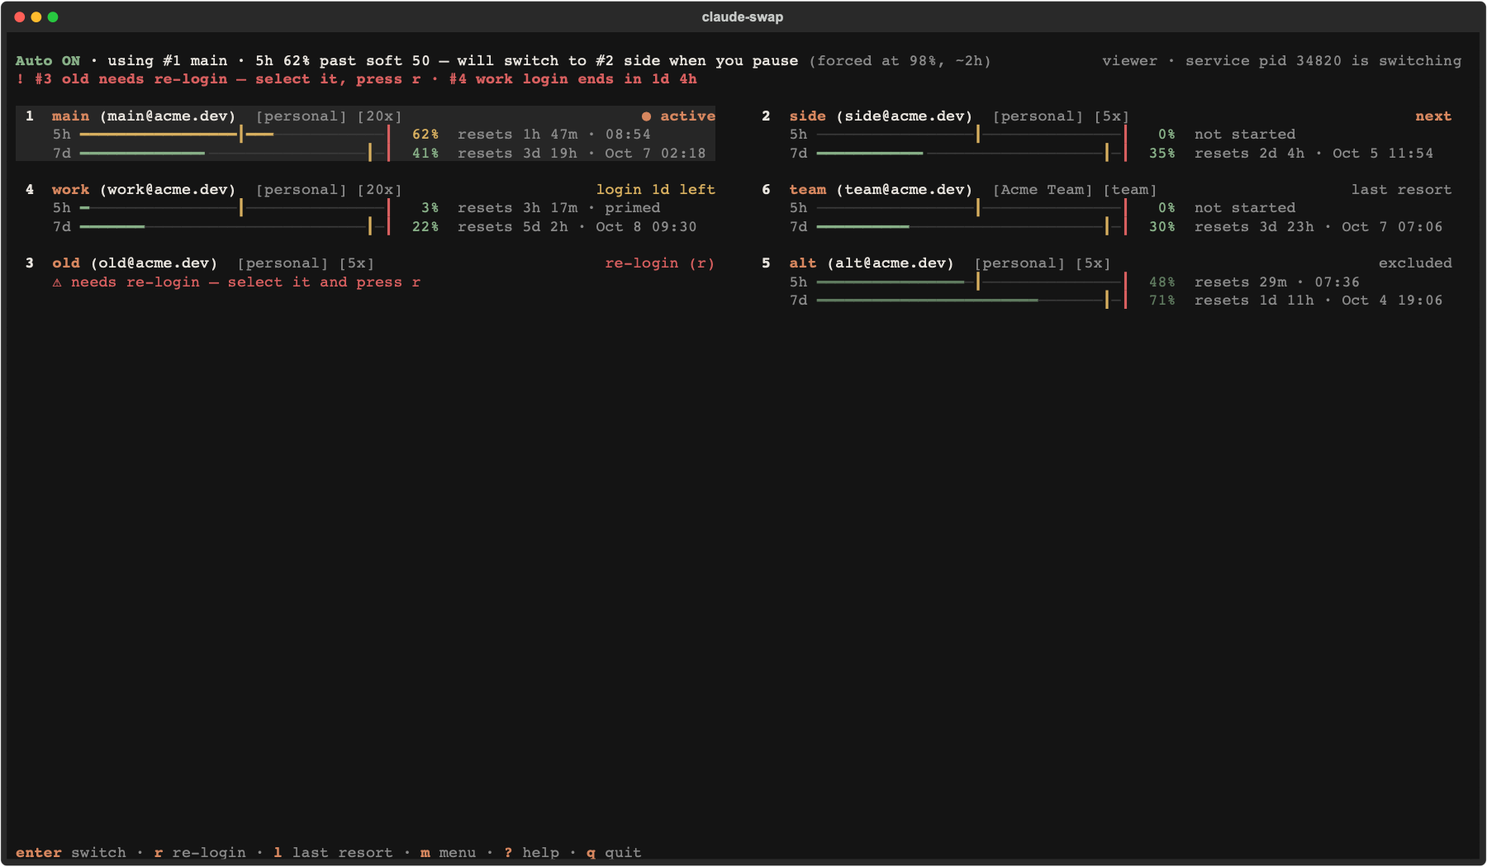
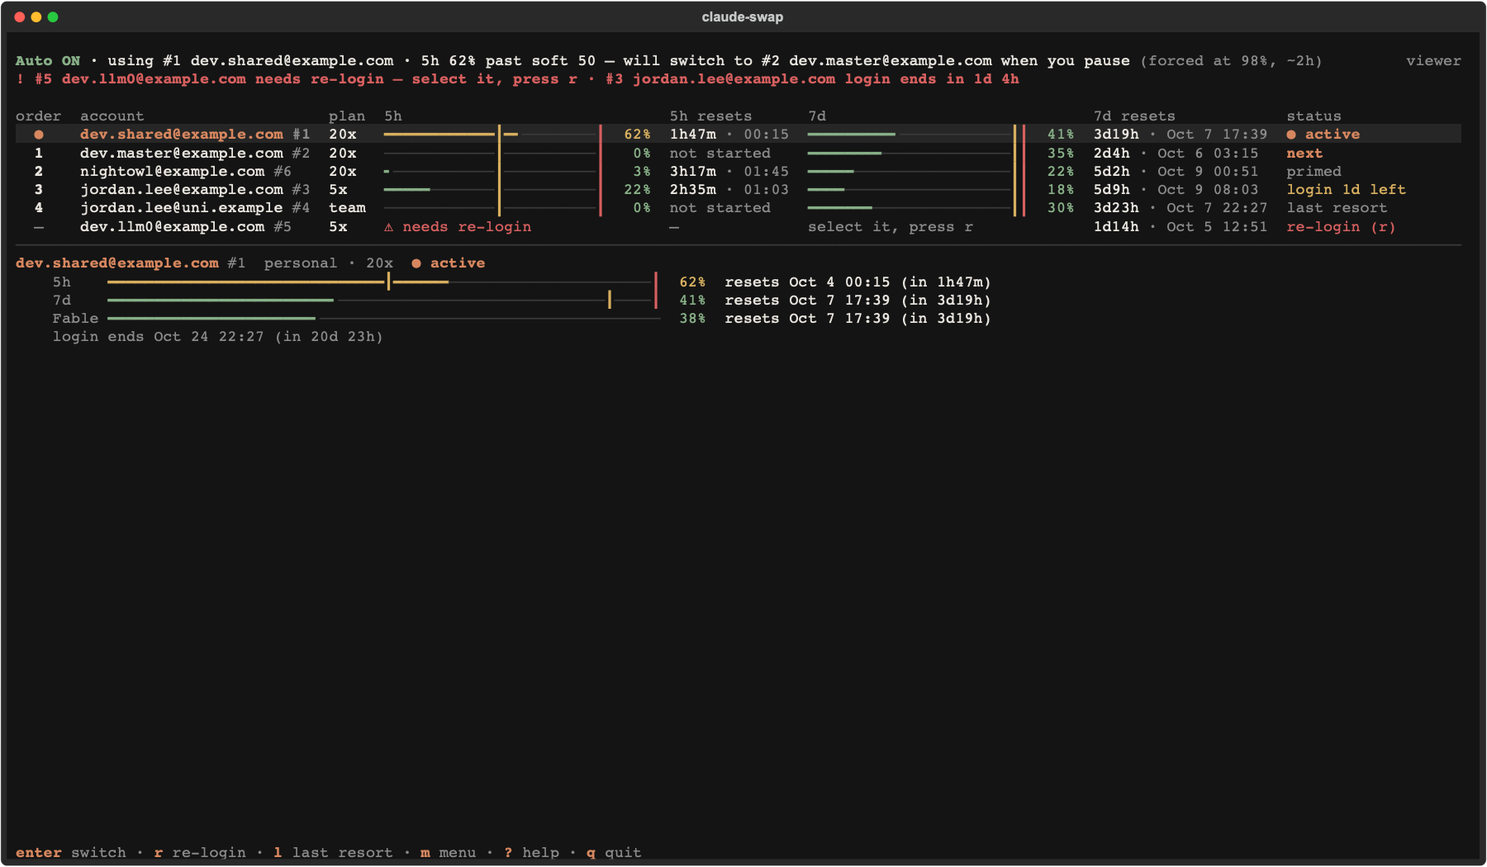
README, screenshots: the table home screen
The Fleet section describes the table: its headers, the order column
(● / 1 2 3 … / –) and the dim #4 after each name, both resets on every
row, the status column right after 7d resets (with primed), the
selected account's panel (per-model windows such as Fable included),
and the order the columns give way in on a narrow terminal. Up/down
move one row; there are no columns to move across any more.

tools/fleet_screenshots.py seeds six accounts the way a real fleet
looks: no aliases, so the table shows full 20-22 character emails, and
one account per state (active with a Fable window, next with its 5h not
started, a login a day from its deadline, a Team account as last
resort, a dead login that still knows its 7d reset, a primed account).
Sizes are 160x45, 120x36, 100x30, 80x24 and 200x16 (wide but short),
written to /tmp/cc-swap-tui-poc/table by default. --emails swaps in
other addresses for a private preview, so real ones stay out of the
README images. The three README images are regenerated from it.

diff --git a/tools/fleet_screenshots.py b/tools/fleet_screenshots.py
@@ -1,6 +1,7 @@
 """Screenshots of the Fleet home screen, from a fake fleet (README images).
 
-    uv run python tools/fleet_screenshots.py [--out DIR ...] [--assets DIR] [NAME ...]
+    uv run python tools/fleet_screenshots.py [--out DIR ...] [--assets DIR]
+        [--emails A,B,C,D,E,F] [NAME ...]
 
 Runs the real ``CswapApp`` against six fake accounts in a temporary HOME
 (``tests.test_tui.FakeSwitcher``, a temporary backup root, the service
@@ -10,9 +11,17 @@ the Keychain, ``claude`` or launchd/systemd. The fake backup root also gets
 nine days of usage history, so help and Swap strategy show a learned idle
 pattern.
 
+The six accounts have no aliases, so the table shows their full emails
+(20-22 characters, like a real fleet's), and cover every row state: the
+active account (with a per-model ``Fable`` window), the next one with its
+5h window not started, a login one day from its deadline, a Team account
+marked last resort, a dead login and a primed account. ``--emails`` swaps
+in other addresses (six, comma-separated) for a private preview; keep real
+addresses out of the README images.
+
 Writes ``fleet-<size>.svg`` for each shot, plus a PNG (macOS Quick Look,
 cropped to the window) when ``qlmanage`` and ``sips`` exist, into the first
-``--out`` (default ``/tmp/cc-swap-tui-poc/final``) and copies them into any
+``--out`` (default ``/tmp/cc-swap-tui-poc/table``) and copies them into any
 further ``--out``. ``--assets DIR`` also copies the README's images there
 (:data:`README_ASSETS`). NAMEs pick shots (``160x45``, ``menu``,
 ``autooff``, ``resetwait``, ``preempt``, ``strategy`` …); none means all.
@@ -46,7 +55,13 @@ from claude_swap.usage_store import UsageEntry  # noqa: E402
 
 NOW = time.time()
 H, D = 3600.0, 86400.0
-SIZES = [(160, 45), (120, 36), (90, 28), (80, 24)]
+SIZES = [(160, 45), (120, 36), (100, 30), (80, 24), (200, 16)]
+
+#: The six accounts' emails (no aliases). ``--emails`` replaces them.
+EMAILS = [
+    "dev.shared@example.com", "dev.master@example.com", "jordan.lee@example.com",
+    "jordan.lee@uni.example", "dev.llm0@example.com", "nightowl@example.com",
+]
 
 
 def _iso(ts: float) -> str:
@@ -54,34 +69,46 @@ def _iso(ts: float) -> str:
         "+00:00", "Z")
 
 
-def _entry(p5, r5, p7, r7_days, age=40.0) -> UsageEntry:
-    last_good = {
-        "five_hour": {"pct": p5, "resets_at": _iso(NOW + r5) if r5 else None},
-        "seven_day": {"pct": p7, "resets_at": _iso(NOW + r7_days * D)},
-    }
-    return UsageEntry(last_good=last_good, fetched_at=NOW - age, age_s=age)
+def _window(pct, reset_in) -> dict:
+    return {"pct": pct, "resets_at": _iso(NOW + reset_in) if reset_in else None}
 
 
-def _account(n, alias, entry, *, active=False, org="", login_days=None, disabled=False):
+def _entry(p5, r5, p7, r7_days, *, age=40.0, fable=None, sentinel=None) -> UsageEntry:
+    last_good = {"five_hour": _window(p5, r5), "seven_day": _window(p7, r7_days * D)}
+    if fable is not None:
+        last_good["scoped"] = [{"name": "Fable", **_window(fable, r7_days * D)}]
+    return UsageEntry(sentinel=sentinel, last_good=last_good, fetched_at=NOW - age, age_s=age)
+
+
+def _account(n, email, entry, *, active=False, org="", login_days=None, disabled=False):
     return AccountSnapshot(
-        number=str(n), email=f"{alias}@acme.dev", org_name=org, org_uuid="org-1" if org else "",
-        is_active=active, kind="oauth", switchable=True, usage=entry, alias=alias,
+        number=str(n), email=email, org_name=org, org_uuid="org-1" if org else "",
+        is_active=active, kind="oauth", switchable=True, usage=entry, alias="",
         disabled=disabled,
         login_expires_at=(NOW + login_days * D) * 1000.0 if login_days is not None else None,
     )
 
 
-# #1 active past its 5h soft mark; #2 cold, next; #3 dead login; #4 primed,
-# login ends in about a day; #5 excluded; #6 a Team account, last resort.
-ACCOUNTS = [
-    _account(1, "main", _entry(62.0, 1.8 * H, 41.0, 3.8), active=True, login_days=21),
-    _account(2, "side", _entry(0.0, None, 35.0, 2.2), login_days=20),
-    _account(3, "old", UsageEntry(sentinel=USAGE_RELOGIN_REQUIRED)),
-    _account(4, "work", _entry(3.0, 3.3 * H, 22.0, 5.1), login_days=1.2),
-    _account(5, "alt", _entry(48.0, 0.5 * H, 71.0, 1.5), login_days=14, disabled=True),
-    _account(6, "team", _entry(0.0, None, 30.0, 4.0), org="Acme Team", login_days=29),
-]
-PLANS = {"1": "20x", "2": "5x", "3": "5x", "4": "20x", "5": "5x", "6": "team"}
+def accounts_for(emails: list[str], first: UsageEntry | None = None) -> list[AccountSnapshot]:
+    """#1 active, past its 5h soft mark, with a Fable window (``first``
+    replaces its usage); #2 next, its 5h not started; #3 login ends in
+    about a day; #4 a Team account, last resort, 5h not started; #5 a dead
+    login (its last reading still says when its windows reset); #6 primed."""
+    e = emails
+    return [
+        _account(1, e[0], first or _entry(62.0, 1.8 * H, 41.0, 3.8, fable=38.0),
+                 active=True, login_days=21),
+        _account(2, e[1], _entry(0.0, None, 35.0, 2.2), login_days=20),
+        _account(3, e[2], _entry(22.0, 2.6 * H, 18.0, 5.4), login_days=1.2),
+        _account(4, e[3], _entry(0.0, None, 30.0, 4.0), org="Acme Team", login_days=29),
+        _account(5, e[4], _entry(0.0, None, 57.0, 1.6, age=9 * H,
+                                 sentinel=USAGE_RELOGIN_REQUIRED)),
+        _account(6, e[5], _entry(3.0, 3.3 * H, 22.0, 5.1), login_days=14),
+    ]
+
+
+ACCOUNTS = accounts_for(EMAILS)
+PLANS = {"1": "20x", "2": "20x", "3": "5x", "4": "team", "5": "5x", "6": "20x"}
 
 # The README's images: shot name -> file name in --assets.
 README_ASSETS = {
@@ -109,16 +136,14 @@ def seed_history(root: Path) -> str:
     return forecast.next.start_label if forecast and forecast.next else "23:00"
 
 
-def _scenario(name: str, quiet: str) -> tuple[list, dict, list]:
+def _scenario(name: str, quiet: str, emails: list[str]) -> tuple[list, dict, list]:
     """``(accounts, published decision, #1's samples)`` for a scenario:
     ``pending`` (past the 5h soft mark, waiting for a pause), ``reset-wait``
     (past it too, but the 5h window resets in 8 minutes) or ``preempt``
     (the 7d would pass its soft mark before the quiet time)."""
-    accounts = list(ACCOUNTS)
     base = {"at": NOW - 50, "pid": os.getpid(), "active": "1", "plans": PLANS}
     if name == "reset-wait":
-        accounts[0] = _account(1, "main", _entry(96.0, 8 * 60 + 20, 41.0, 3.8),
-                               active=True, login_days=21)
+        accounts = accounts_for(emails, _entry(96.0, 8 * 60 + 20, 41.0, 3.8, fable=38.0))
         return accounts, {
             **base, "decision": "hold", "trigger": None, "target": None, "pending": False,
             "code": "reset-wait",
@@ -126,8 +151,7 @@ def _scenario(name: str, quiet: str) -> tuple[list, dict, list]:
                       "(switches at once if it hits 100%)",
         }, [[NOW - 660, 95.5, 40.8], [NOW - 60, 96.0, 41.0]]
     if name == "preempt":
-        accounts[0] = _account(1, "main", _entry(31.0, 1.8 * H, 84.0, 3.8),
-                               active=True, login_days=21)
+        accounts = accounts_for(emails, _entry(31.0, 1.8 * H, 84.0, 3.8, fable=60.0))
         return accounts, {
             **base, "decision": "hold", "trigger": None, "target": None, "pending": False,
             "code": "preempt",
@@ -135,33 +159,36 @@ def _scenario(name: str, quiet: str) -> tuple[list, dict, list]:
                       f"({quiet}) — will move to #2 at the next idle moment "
                       "(5h +3 / 7d +0.2 pts over 10 min)",
         }, [[NOW - 660, 28.0, 83.8], [NOW - 60, 31.0, 84.0]]
-    return accounts, {
+    return accounts_for(emails), {
         **base, "decision": "hold", "trigger": None, "target": "2", "pending": True,
         "reason": "#1 5h 62% >= soft 50%; waiting for idle to move to #2 "
                   "(5h +3 / 7d +0.2 pts over 10 min)",
     }, [[NOW - 660, 59.0, 40.8], [NOW - 60, 62.0, 41.0]]
 
 
-def seed(root: Path, *, auto_off: bool = False, scenario: str = "pending") -> list:
+def seed(
+    root: Path, *, emails: list[str] = EMAILS, auto_off: bool = False,
+    scenario: str = "pending",
+) -> list:
     """Settings, state and usage history for a scenario; returns its accounts."""
     root.mkdir(parents=True, exist_ok=True)
     (root / "settings.json").write_text(json.dumps({
         "schemaVersion": 1,
         "autoswitch": {"strategy": "maximize"},
-        "maximize": {"lastResort": "team@acme.dev", "soft5h": 50, "hard5h": 98,
+        "maximize": {"lastResort": emails[3], "soft5h": 50, "hard5h": 98,
                      "soft7d": 90, "hard7d": 98},
         "prime": {"enabled": True, "jitterS": "45-300"},
     }))
     quiet = seed_history(root)
-    accounts, decision, samples = _scenario(scenario, quiet)
-    reset4 = NOW + 3.3 * H
+    accounts, decision, samples = _scenario(scenario, quiet, emails)
+    reset6 = NOW + 3.3 * H
     state = {
         "schemaVersion": 1,
-        "quarantine": {"3": {"email": "old@acme.dev", "reason": "invalid_grant"}},
+        "quarantine": {"5": {"email": emails[4], "reason": "invalid_grant"}},
         "maximizeSamples": {"account": "1", "samples": samples},
-        "primes": {"work@acme.dev": {
+        "primes": {emails[5]: {
             "windowKey": "w", "attempts": 1,
-            "lastAttemptAt": reset4 - 5 * H + 60, "lastOutcome": "primed"}},
+            "lastAttemptAt": reset6 - 5 * H + 60, "lastOutcome": "primed"}},
         "lastSwitchAt": NOW - 2 * H,
         "maximizeDecision": decision,
     }
@@ -203,7 +230,7 @@ async def settle(app, pilot) -> None:
 
 
 async def shoot(
-    out: Path, root: Path, w: int, h: int, name: str, *, keys=(), accounts=None
+    out: Path, root: Path, w: int, h: int, name: str, *, accounts, keys=()
 ) -> list[Path]:
     import claude_swap.tui.fleet as fleet_mod
     from claude_swap.tui.app import CswapApp
@@ -214,7 +241,7 @@ async def shoot(
         "platform": "darwin", "installed": True, "loaded": True, "running": True,
         "state": "running", "pid": os.getpid(), "logs": [],
     }
-    app = CswapApp(FakeSwitcher(accounts or ACCOUNTS, root))
+    app = CswapApp(FakeSwitcher(accounts, root))
     async with app.run_test(size=(w, h)) as pilot:
         await settle(app, pilot)
         assert isinstance(app.screen, FleetScreen), type(app.screen)
@@ -236,9 +263,13 @@ async def main() -> None:
                         help="output directory (repeat to copy into more)")
     parser.add_argument("--assets", type=Path,
                         help="also copy the README's images here (e.g. assets/)")
+    parser.add_argument("--emails", help="six comma-separated emails for the accounts")
     parser.add_argument("only", nargs="*")
     args = parser.parse_args()
-    outs: list[Path] = args.out or [Path("/tmp/cc-swap-tui-poc/final")]
+    emails = [e.strip() for e in args.emails.split(",")] if args.emails else EMAILS
+    if len(emails) != len(EMAILS) or not all(emails):
+        parser.error(f"--emails takes {len(EMAILS)} comma-separated addresses")
+    outs: list[Path] = args.out or [Path("/tmp/cc-swap-tui-poc/table")]
     for directory in outs:
         directory.mkdir(parents=True, exist_ok=True)
     out = outs[0]
@@ -248,36 +279,36 @@ async def main() -> None:
     def wanted(name: str) -> bool:
         return not args.only or any(o in name for o in args.only)
 
-    async def take(w: int, h: int, name: str, **kw) -> None:
+    async def take(w: int, h: int, name: str, *, accounts, **kw) -> None:
         if wanted(name):
-            written[name] = await shoot(out, root, w, h, name, **kw)
+            written[name] = await shoot(out, root, w, h, name, accounts=accounts, **kw)
 
-    seed(root)
+    accounts = seed(root, emails=emails)
     lease = EngineLease(root)
     assert lease.acquire()
     try:
         for w, h in SIZES:
-            await take(w, h, f"fleet-{w}x{h}")
-        await take(120, 36, "fleet-menu-120x36", keys=("m",))
-        await take(120, 36, "fleet-help-120x36", keys=("question_mark",))
+            await take(w, h, f"fleet-{w}x{h}", accounts=accounts)
+        await take(120, 36, "fleet-menu-120x36", keys=("m",), accounts=accounts)
+        await take(120, 36, "fleet-help-120x36", keys=("question_mark",), accounts=accounts)
         # Help scrolled to its end: the words and what has been learned.
         await take(120, 36, "fleet-help-learned-120x36",
-                   keys=("question_mark", *("j",) * 40))
-        await take(120, 36, "fleet-strategy-120x36", keys=("m", "s"))
+                   keys=("question_mark", *("j",) * 40), accounts=accounts)
+        await take(120, 36, "fleet-strategy-120x36", keys=("m", "s"), accounts=accounts)
         if any(wanted(n) for n in ("fleet-autooff-120x36", "fleet-autooff-80x24")):
-            seed(root, auto_off=True)
-            await take(120, 36, "fleet-autooff-120x36")
-            await take(80, 24, "fleet-autooff-80x24")
+            seed(root, emails=emails, auto_off=True)
+            await take(120, 36, "fleet-autooff-120x36", accounts=accounts)
+            await take(80, 24, "fleet-autooff-80x24", accounts=accounts)
         for scenario, shots in (
             ("reset-wait", ((160, 45), (80, 24))),
             ("preempt", ((120, 36),)),
         ):
             names = [f"fleet-{scenario.replace('-', '')}-{w}x{h}" for w, h in shots]
             if any(wanted(n) for n in names):
-                accounts = seed(root, scenario=scenario)
+                scenario_accounts = seed(root, emails=emails, scenario=scenario)
                 for (w, h), name in zip(shots, names):
-                    await take(w, h, name, accounts=accounts)
-        seed(root)
+                    await take(w, h, name, accounts=scenario_accounts)
+        seed(root, emails=emails)
     finally:
         lease.release()
         shutil.rmtree(HOME, ignore_errors=True)

diff --git a/README.md b/README.md
@@ -210,21 +210,23 @@ cc-swap auto status        # on or off, who turned it off and when (--json for s
 
 With `autoswitch.strategy` set to `maximize`, the TUI (`cc-swap` on its own, or `cc-swap tui`) opens on **Fleet** instead of the upstream dashboard; `cc-swap watch` still opens the watch view. The upstream dashboard is in the menu (`m` → `c`, *Classic dashboard*); `ctrl+f` comes back from any screen. Other strategies keep the upstream TUI unchanged.
 
-<img src="assets/fleet-wide.png" width="760" alt="Fleet at 160 columns: the status sentence and the attention line on top, six account blocks in two columns with soft/hard-marked 5h and 7d bars and one tag each, and the six-key footer">
+<img src="assets/fleet-wide.png" width="760" alt="Fleet at 160 columns: the status sentence and the attention line on top, then a table of six accounts under the headers order, account, plan, 5h, 5h resets, 7d, 7d resets and status, with soft/hard-marked bars, both reset times on every row and the status right after them; under it the selected account in full, and the six-key footer">
 
 - **One sentence on top** says what automatic switching is doing: `Auto ON · using #1 main · 5h 62% past soft 50 — will switch to #2 side when you pause (forced at 98%, ~2h)`. On its right it says who runs the engine: `viewer · service pid 4121 is switching` (`is idle` while automatic switching is off). It never shows an old decision as the current one: with automatic switching off it reads `Auto OFF — nothing switches automatically`, with no engine `Not switching — no engine is running`, right after a switch `waiting for the engine's next check`, and once the engine has published nothing for longer than it should, `the engine has not reported since 14:02 (25m ago) — nothing below is live`. During a Fleet re-login it reads `Paused · re-login in progress`. A narrow terminal gets a shorter wording; the line never wraps.
 - **The engine's reasons in plain words.** When maximize holds for a reason of its own (the `reset-wait`, `preempt` and `rebalance-deferred` codes of [Why didn't it switch?](#why-didnt-it-switch)), the sentence says what it is waiting for instead of a generic "it stays": `5h 96% — resets in 8m, waiting it out (switches at once if it hits 100%)` (the minutes count down live), `7d 84% would pass 90% in ~3h, before your usual quiet time (23:00) — will move to #2 side when you pause`, `rebalance deferred to your quiet time (23:00)`; a `preempt` switch reads `switching #1 main → #2 side now while you're idle`. This works the same whether the service, another process or this TUI runs the engine.
 
 <img src="assets/fleet-reset-wait.png" width="760" alt="Fleet at 160 columns while maximize waits out a reset: the top line reads Auto ON · using #1 main · 5h 96% — resets in 8m, waiting it out (switches at once if it hits 100%)">
 - **At most one attention line**, only when something needs you: a dead login (`! #3 old needs re-login — select it, press r`), a login that ends within a week, priming paused after a Claude Code update, or a Linux service that stops at logout. It is red for a dead login or one in its last day, amber otherwise.
-- **One block per account**, in the upstream dashboard's look: `1  main (main@acme.dev)  [personal] [20x]` over its 5h and 7d bars (and any spend or per-model window). Each bar marks the soft threshold with an amber `┃` and the hard one with a red `┃`, and its colour follows them: green under soft, amber from soft, red from hard, with that window's own `maximize.soft*`/`maximize.hard*` values. The classic dashboard and the auto screen colour maximize bars the same way. A 5h window that has not started reads `not started`, one opened by priming `· primed`; a stale reading is dimmed and shows its age.
-- **One tag per account**, the most important: `● active`, then `re-login (r)`, `excluded`, `next` (where automatic switching goes next, shown only while it runs), `login 3d left`, `last resort`, and `5h off · prime 05:25` (when priming starts the window; the time is hidden while priming does not run).
-- **Order:** the active account, then the engine's pick order, then the rest; excluded accounts last.
-- **The layout follows the terminal size:** two columns of blocks from 140 columns, one column from 100, and below 100 columns or 30 rows one line per account with the selected account in full under the list. The sentence, the attention line and the footer stay on screen at every size; only the accounts scroll.
+- **One table row per account**, under dim column headers: `order · account · plan · 5h · 5h resets · 7d · 7d resets · status`. The account is its alias, else its whole email (up to 32 characters), with the slot number after it as a dim `#4` (the number the attention line and `cc-swap` commands use). Each bar marks the soft threshold with an amber `┃` and the hard one with a red `┃`, and its colour follows them: green under soft, amber from soft, red from hard, with that window's own `maximize.soft*`/`maximize.hard*` values. The classic dashboard and the auto screen colour maximize bars the same way. A stale reading is dimmed.
+- **When both windows reset, for every account:** `1h47m · 07:10` under `5h resets` and `3d19h · Oct 7 02:18` under `7d resets` (a narrower terminal keeps the countdown and drops the clock). A 5h window that is not running reads `not started`, an unknown one `—`; a dead login keeps the resets of its last good reading and says `⚠ needs re-login` where its bars would be.
+- **Order:** the `order` column marks the active account `●` and numbers the others `1`, `2`, `3` … in the order automatic switching would try them (the engine's pick order, then the rest); an account it never goes to (a dead login, an excluded account, a login past its deadline) reads `–`. The rows follow that order, excluded accounts last.
+- **One status per account**, in its own column right after `7d resets` (never at the terminal's right edge), the most important: `● active`, then `re-login (r)`, `excluded`, `next` (where automatic switching goes next, shown only while it runs), `login 3d left`, `last resort`, and `5h off · prime 05:25` (when priming starts the window; the time is hidden while priming does not run); otherwise a dim `primed` when priming opened the 5h window it is in.
+- **The selected account in full** under the table, when the terminal has the rows for it: organization, plan, login deadline (`login ends Oct 24 09:12 (in 21d 0h)`), priming (`5h opened by priming`, `next prime ≤08:30`), and a long bar for every usage window it has, per-model ones such as `Fable` included, each with its exact reset (`resets Oct 7 02:18 (in 3d19h)`).
+- **The table is used at every terminal size.** When the columns do not fit, they give way in this order: the bars shorten (down to 6 cells), the columns move closer, the reset clocks go (the countdowns stay), the plan column goes, the name is cut with `…` down to 13 characters (its `#4` stays), and only then do the bars go, leaving the coloured percentages and the name the room. `order`, the resets and the status never go. A short terminal drops the selected account's panel first; the sentence, the attention line, the column headers and the footer stay on screen at every size, and only the table scrolls.
 
-<img src="assets/fleet-narrow.png" width="560" alt="Fleet at 80x24: one line per account with both bars and its tag, and the selected account in full below the list">
+<img src="assets/fleet-narrow.png" width="560" alt="Fleet at 80x24: the same table with the percentages in place of the bars, countdowns without clocks, nearly whole names with their #N, and the selected account in full below it">
 
-- **Keys.** The footer is the whole list: `enter` switch to the selected account (asks first only when maximize would not land there) · `r` re-login · `l` last resort on/off · `m` menu · `?` help · `q` quit. `↑`/`↓` (`j`/`k`) select, `←`/`→` move across the two columns, and a click selects too; the selected account gets a highlighted background and keeps its colours. `?` explains every tag and word on the screen (soft/hard, next, last resort, pace, priming, viewer/lease, waiting it out, quiet time, preempt, rebalance deferred) and says what the engine has learned of your busy and quiet times (`idle pattern: 9 days learned · next quiet window 23:00–07:30`); the home screen itself stays quiet about it.
+- **Keys.** The footer is the whole list: `enter` switch to the selected account (asks first only when maximize would not land there) · `r` re-login · `l` last resort on/off · `m` menu · `?` help · `q` quit. `↑`/`↓` (`j`/`k`) move one row, and a click selects too; the selected row gets a highlighted background and keeps its colours. `?` explains every tag and word on the screen (soft/hard, next, last resort, pace, priming, viewer/lease, waiting it out, quiet time, preempt, rebalance deferred) and says what the engine has learned of your busy and quiet times (`idle pattern: 9 days learned · next quiet window 23:00–07:30`); the home screen itself stays quiet about it.
 - **Menu** (`m`), one letter per item: `o` automatic switching on/off · `m` Mode · `s` Swap strategy · `p` Prime now · `f` Fetch latest usage · `x` exclude/include the selected account · `a` Account settings · `e` Engine log (the auto screen) · `v` View switch history · `u` Update Claude Code · `c` Classic dashboard · `q` Quit; `↑`/`↓` and `enter` work too, `esc` closes it. The letters also work straight from Fleet, except `o` (one stray key never turns switching off) and `m`; `w` opens the watch view and `g` the engine log. **Account settings:** `a` Add current login · `t` Token or API key · `r` Re-login · `n` Name (alias) · `d` Delete account · `i` Inspect all logins (doctor) · `b` back. **Mode:** `d`/`l` run an engine here (dry-run/live), `s` stop it, `o` automatic switching off/on. Keys are unique on each screen, and `v`, `u` and `i` mean one thing anywhere in Fleet.
 - **Swap strategy** (`m` → `s`) edits the four soft/hard marks, `landingMargin`, the idle window and rise, `forceEtaMin`, `resetWaitMin`, the rebalance cooldown and `tieEpsilon`; the idle-pattern knobs `learnIdlePattern`, `preempt`, `preemptHorizonMaxH` and `busyRebalanceGap` (their group's heading says what has been learned so far); and priming. `↑`/`↓` pick a value, `←`/`→` adjust it within its range (a soft mark never passes its hard one; on/off values toggle), `e` types one (checked the way `cc-swap config set` checks it), `s` saves to `settings.json` and `b` goes back. A live preview shows what the engine would decide with the edited values next to the saved ones, using the engine's usage history as the engine would. The engine, including the service, picks the change up on its next tick.
 - **Viewer by default.** Fleet never takes the engine lease by itself, so it never pushes the service aside. Mode (`m` → `m`) runs an engine in this TUI on request — dry-run, or live after a confirmation — and quitting asks first while a live one runs. The auto screen attaches to that engine instead of starting a second one.
